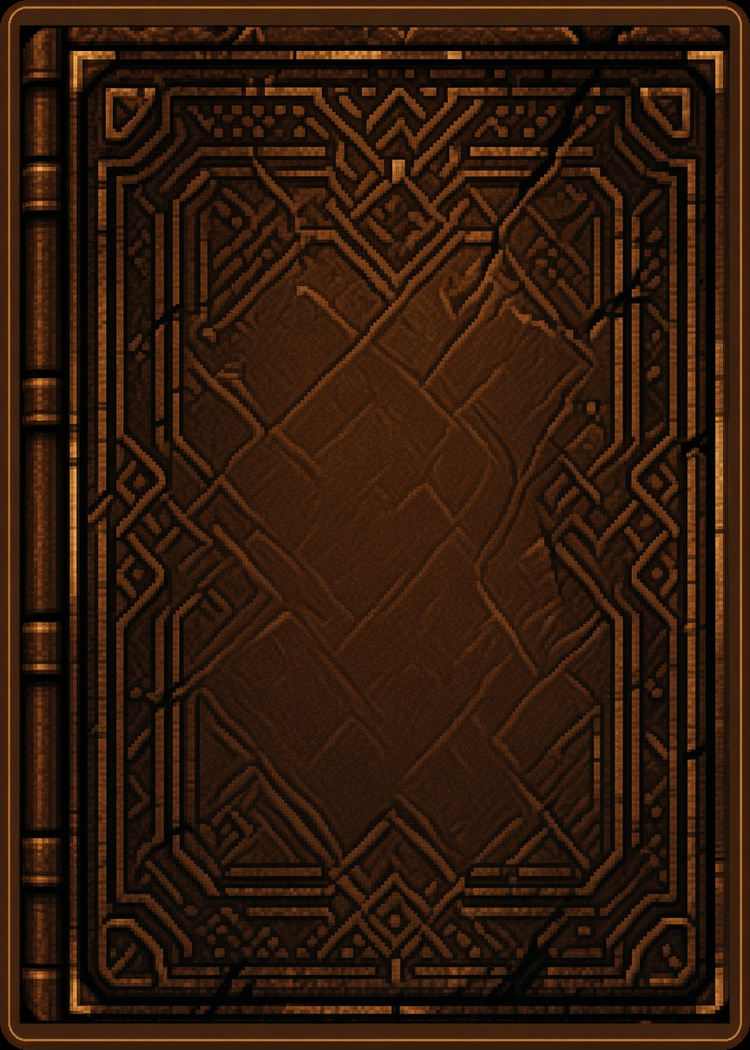
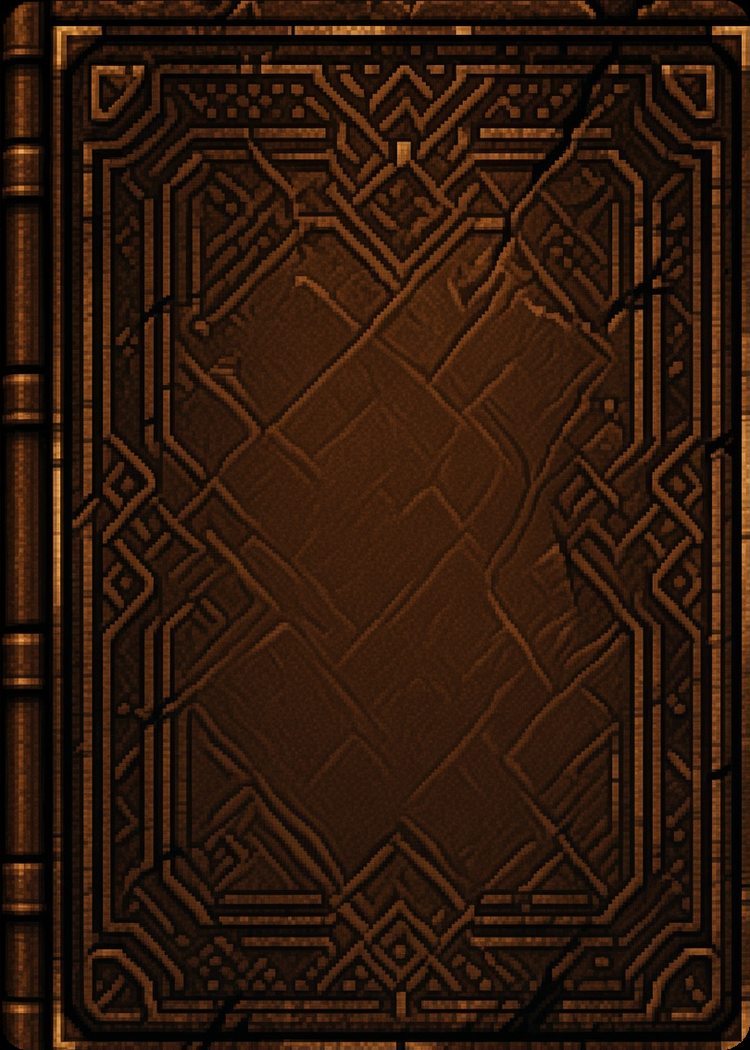
Deux fonds livre cuir brun : ras le livre, et fond perdu 3 mm.
Le cadre brun autour disparaît. Les deux sorties restent en 750×1050.

diff --git a/DosCartes/apercu.html b/DosCartes/apercu.html
@@ -23,8 +23,9 @@
     Logos extraits des dos Best (<code>01</code>, <code>03</code>, <code>03b</code>,
     <code>03e</code>, <code>07</code>, <code>09</code>, <code>42</code>) :
     tout ce qui n’est pas le logo est transparent. Fonds cuir plat 180°-symétriques
-    (<code>01</code>–<code>05</code>) et fond <strong>style livre</strong> cuir brun
-    avec tranche (<code>06</code>). N’importe quel logo se pose sur n’importe quel fond.
+    (<code>01</code>–<code>05</code>) et fonds <strong>style livre</strong> cuir brun
+    (<code>06</code> ras le livre, <code>06_fondperdu</code> avec 3&nbsp;mm de noir).
+    N’importe quel logo se pose sur n’importe quel fond.
   </p>
   <h2>Logos (PNG transparent)</h2>
   <div class="grid wide"><figure><img class="chk" src="logos/03_titre_bicolore_apercu.png" alt="03 — PIXEL / OF GLORY bleu-or-rouge"><figcaption>03 — PIXEL / OF GLORY bleu-or-rouge<br><code>logos/03_titre_bicolore.png</code></figcaption></figure>
@@ -43,7 +44,8 @@
 <figure><img src="fonds/04_obsidienne.png" alt="Nouveau — obsidienne, grain cuir"><figcaption>Nouveau — obsidienne, grain cuir<br><code>fonds/04_obsidienne.png</code></figcaption></figure>
 <figure><img src="fonds/05_emeraude.png" alt="Nouveau — émeraude sombre"><figcaption>Nouveau — émeraude sombre<br><code>fonds/05_emeraude.png</code></figcaption></figure></div>
   <h2>Fonds style livre (tranche + cadre géométrique)</h2>
-  <div class="grid"><figure><img src="fonds/06_livre_brun.png" alt="Livre — grimoire cuir brun, cadre complet"><figcaption>Livre — grimoire cuir brun, cadre complet<br><code>fonds/06_livre_brun.png</code></figcaption></figure></div>
+  <div class="grid"><figure><img src="fonds/06_livre_brun.png" alt="Livre — cuir brun, ras le livre"><figcaption>Livre — cuir brun, ras le livre<br><code>fonds/06_livre_brun.png</code></figcaption></figure>
+<figure><img src="fonds/06_livre_brun_fondperdu.png" alt="Livre — cuir brun, fond perdu 3 mm noir"><figcaption>Livre — cuir brun, fond perdu 3 mm noir<br><code>fonds/06_livre_brun_fondperdu.png</code></figcaption></figure></div>
   <h2>Exemples logo + fond</h2>
   <div class="grid"><figure><img src="exemples/mix_03_sur_brun.png" alt="mix_03_sur_brun"><figcaption>mix 03 sur brun</figcaption></figure>
 <figure><img src="exemples/mix_laurier_sur_brun.png" alt="mix_laurier_sur_brun"><figcaption>mix laurier sur brun</figcaption></figure>
@@ -53,6 +55,7 @@
 <figure><img src="exemples/mix_01_sur_emeraude.png" alt="mix_01_sur_emeraude"><figcaption>mix 01 sur emeraude</figcaption></figure>
 <figure><img src="exemples/mix_03b_sur_obsidienne.png" alt="mix_03b_sur_obsidienne"><figcaption>mix 03b sur obsidienne</figcaption></figure>
 <figure><img src="exemples/mix_07_sur_bordeaux.png" alt="mix_07_sur_bordeaux"><figcaption>mix 07 sur bordeaux</figcaption></figure>
-<figure><img src="exemples/mix_laurier_sur_livre_brun.png" alt="mix_laurier_sur_livre_brun"><figcaption>mix laurier sur livre brun</figcaption></figure></div>
+<figure><img src="exemples/mix_laurier_sur_livre_brun.png" alt="mix_laurier_sur_livre_brun"><figcaption>mix laurier sur livre brun</figcaption></figure>
+<figure><img src="exemples/mix_laurier_sur_livre_fondperdu.png" alt="mix_laurier_sur_livre_fondperdu"><figcaption>mix laurier sur livre fondperdu</figcaption></figure></div>
 </body>
 </html>

diff --git a/DosCartes/scripts/separer_logos_fonds.py b/DosCartes/scripts/separer_logos_fonds.py
@@ -419,8 +419,9 @@ def write_apercu(logos: list, fonds: list, mixes: list[Path]) -> None:
     Logos extraits des dos Best (<code>01</code>, <code>03</code>, <code>03b</code>,
     <code>03e</code>, <code>07</code>, <code>09</code>, <code>42</code>) :
     tout ce qui n’est pas le logo est transparent. Fonds cuir plat 180°-symétriques
-    (<code>01</code>–<code>05</code>) et fond <strong>style livre</strong> cuir brun
-    avec tranche (<code>06</code>). N’importe quel logo se pose sur n’importe quel fond.
+    (<code>01</code>–<code>05</code>) et fonds <strong>style livre</strong> cuir brun
+    (<code>06</code> ras le livre, <code>06_fondperdu</code> avec 3&nbsp;mm de noir).
+    N’importe quel logo se pose sur n’importe quel fond.
   </p>
   <h2>Logos (PNG transparent)</h2>
   <div class="grid wide">{logo_html}</div>
@@ -541,7 +542,8 @@ def main() -> None:
         ("03_losanges_bordeaux", "Nouveau — losanges bordeaux, centre vide"),
         ("04_obsidienne", "Nouveau — obsidienne, grain cuir"),
         ("05_emeraude", "Nouveau — émeraude sombre"),
-        ("06_livre_brun", "Livre — grimoire cuir brun, cadre complet"),
+        ("06_livre_brun", "Livre — cuir brun, ras le livre"),
+        ("06_livre_brun_fondperdu", "Livre — cuir brun, fond perdu 3 mm noir"),
     ]
     fonds_meta = [(n, c) for n, c in fonds_meta if (FONDS / f"{n}.png").exists()]
     for name, _ in fonds_meta:
@@ -566,9 +568,11 @@ def main() -> None:
 
     livres = {
         "06_livre_brun": (l01, 0.55),
+        "06_livre_brun_fondperdu": (l01, 0.50),
     }
     mix_names = {
         "06_livre_brun": "mix_laurier_sur_livre_brun",
+        "06_livre_brun_fondperdu": "mix_laurier_sur_livre_fondperdu",
     }
     for fond_name, (logo, sc) in livres.items():
         fp = FONDS / f"{fond_name}.png"
@@ -607,7 +611,7 @@ Les `*_apercu.png` sont les mêmes logos sur damier (contrôle du alpha).
 
 ## Fonds (`fonds/`)
 
-Deux familles : cuir plat 180°-symétrique (`01`–`05`) et style livre cuir brun avec tranche (`06`).
+Deux familles : cuir plat 180°-symétrique (`01`–`05`) et style livre cuir brun (`06`).
 
 | Fichier | Origine |
 |---|---|
@@ -616,12 +620,13 @@ Deux familles : cuir plat 180°-symétrique (`01`–`05`) et style livre cuir br
 | `03_losanges_bordeaux.png` | nouveau |
 | `04_obsidienne.png` | nouveau |
 | `05_emeraude.png` | nouveau |
-| `06_livre_brun.png` | grimoire cuir brun, cadre or complet (pas coupé) |
+| `06_livre_brun.png` | grimoire cuir brun, ras le livre |
+| `06_livre_brun_fondperdu.png` | même livre, 3 mm (35 px) de noir de chaque côté |
 
 Ouvrir `apercu.html` pour tout voir, y compris des exemples logo + fond.
 
-Regénérer les logos et les fonds 01–05 : `python3 DosCartes/scripts/separer_logos_fonds.py`
-(le fond livre `06` n’est pas écrasé).
+Regénérer les logos et les fonds 01–05 : `python3 DosCartes/scripts/separer_logos_fonds.py`  
+Regénérer les deux fonds livre : `python3 DosCartes/scripts/preparer_livre_brun.py`
 """,
         encoding="utf-8",
     )

diff --git a/DosCartes/scripts/preparer_livre_brun.py b/DosCartes/scripts/preparer_livre_brun.py
@@ -1,0 +1,53 @@
+#!/usr/bin/env python3
+"""Découpe le grimoire cuir brun en deux fonds 750×1050.
+
+- 06_livre_brun.png            : ras le livre (plus de cadre brun autour)
+- 06_livre_brun_fondperdu.png  : 3 mm de noir de chaque côté (fond perdu)
+
+Carte poker 63,5 × 88,9 mm → 750×1050 px (~300 dpi) → 3 mm = 35 px.
+Source : scripts/src_livre_brun.jpg
+"""
+from __future__ import annotations
+
+from pathlib import Path
+
+from PIL import Image
+
+from separer_logos_fonds import CARD_H, CARD_W, round_card
+
+ROOT = Path(__file__).resolve().parents[1]
+SRC = Path(__file__).resolve().parent / "src_livre_brun.jpg"
+FONDS = ROOT / "fonds"
+
+# Poker 63.5 × 88.9 mm at 750×1050 (~300 dpi)
+BLEED_MM = 3
+BLEED_PX = round(CARD_W * BLEED_MM / 63.5)  # 35
+
+# Bbox du livre seul sur la source 864×1152 (x1/y1 exclus).
+# Hors cadre brun clair et filet or de la carte.
+BOOK_BOX = (23, 29, 833, 1112)
+
+
+def main() -> None:
+    FONDS.mkdir(parents=True, exist_ok=True)
+    src = Image.open(SRC).convert("RGB")
+    book = src.crop(BOOK_BOX)
+
+    ras = round_card(book.resize((CARD_W, CARD_H), Image.Resampling.LANCZOS))
+    ras.save(FONDS / "06_livre_brun.png", "PNG", optimize=True)
+
+    inner_w = CARD_W - 2 * BLEED_PX
+    inner_h = CARD_H - 2 * BLEED_PX
+    canvas = Image.new("RGB", (CARD_W, CARD_H), (0, 0, 0))
+    canvas.paste(
+        book.resize((inner_w, inner_h), Image.Resampling.LANCZOS),
+        (BLEED_PX, BLEED_PX),
+    )
+    fondperdu = round_card(canvas)
+    fondperdu.save(FONDS / "06_livre_brun_fondperdu.png", "PNG", optimize=True)
+    print("livre ras", CARD_W, CARD_H)
+    print("livre fond perdu", BLEED_PX, "px =", BLEED_MM, "mm")
+
+
+if __name__ == "__main__":
+    main()

diff --git a/DosCartes/README.md b/DosCartes/README.md
@@ -20,7 +20,7 @@ Les `*_apercu.png` sont les mêmes logos sur damier (contrôle du alpha).
 
 ## Fonds (`fonds/`)
 
-Deux familles : cuir plat 180°-symétrique (`01`–`05`) et style livre cuir brun avec tranche (`06`).
+Deux familles : cuir plat 180°-symétrique (`01`–`05`) et style livre cuir brun (`06`).
 
 | Fichier | Origine |
 |---|---|
@@ -29,9 +29,10 @@ Deux familles : cuir plat 180°-symétrique (`01`–`05`) et style livre cuir br
 | `03_losanges_bordeaux.png` | nouveau |
 | `04_obsidienne.png` | nouveau |
 | `05_emeraude.png` | nouveau |
-| `06_livre_brun.png` | grimoire cuir brun, cadre or complet (pas coupé) |
+| `06_livre_brun.png` | grimoire cuir brun, ras le livre |
+| `06_livre_brun_fondperdu.png` | même livre, 3 mm (35 px) de noir de chaque côté |
 
 Ouvrir `apercu.html` pour tout voir, y compris des exemples logo + fond.
 
-Regénérer les logos et les fonds 01–05 : `python3 DosCartes/scripts/separer_logos_fonds.py`
-(le fond livre `06` n’est pas écrasé).
+Regénérer les logos et les fonds 01–05 : `python3 DosCartes/scripts/separer_logos_fonds.py`  
+Regénérer les deux fonds livre : `python3 DosCartes/scripts/preparer_livre_brun.py`
